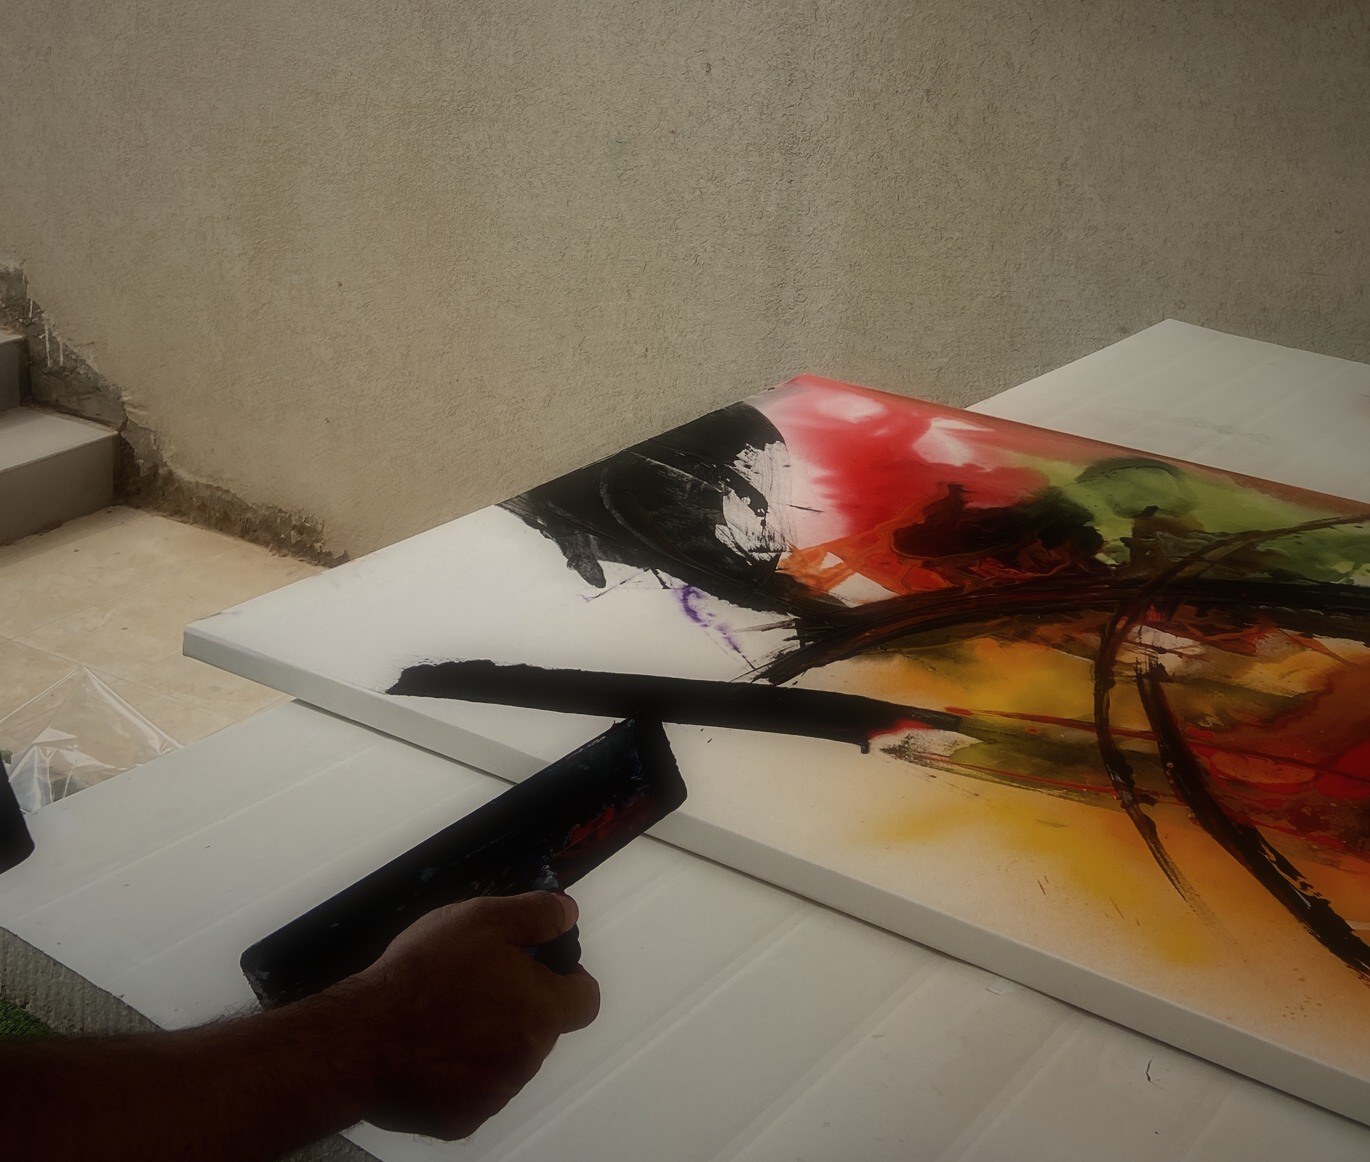
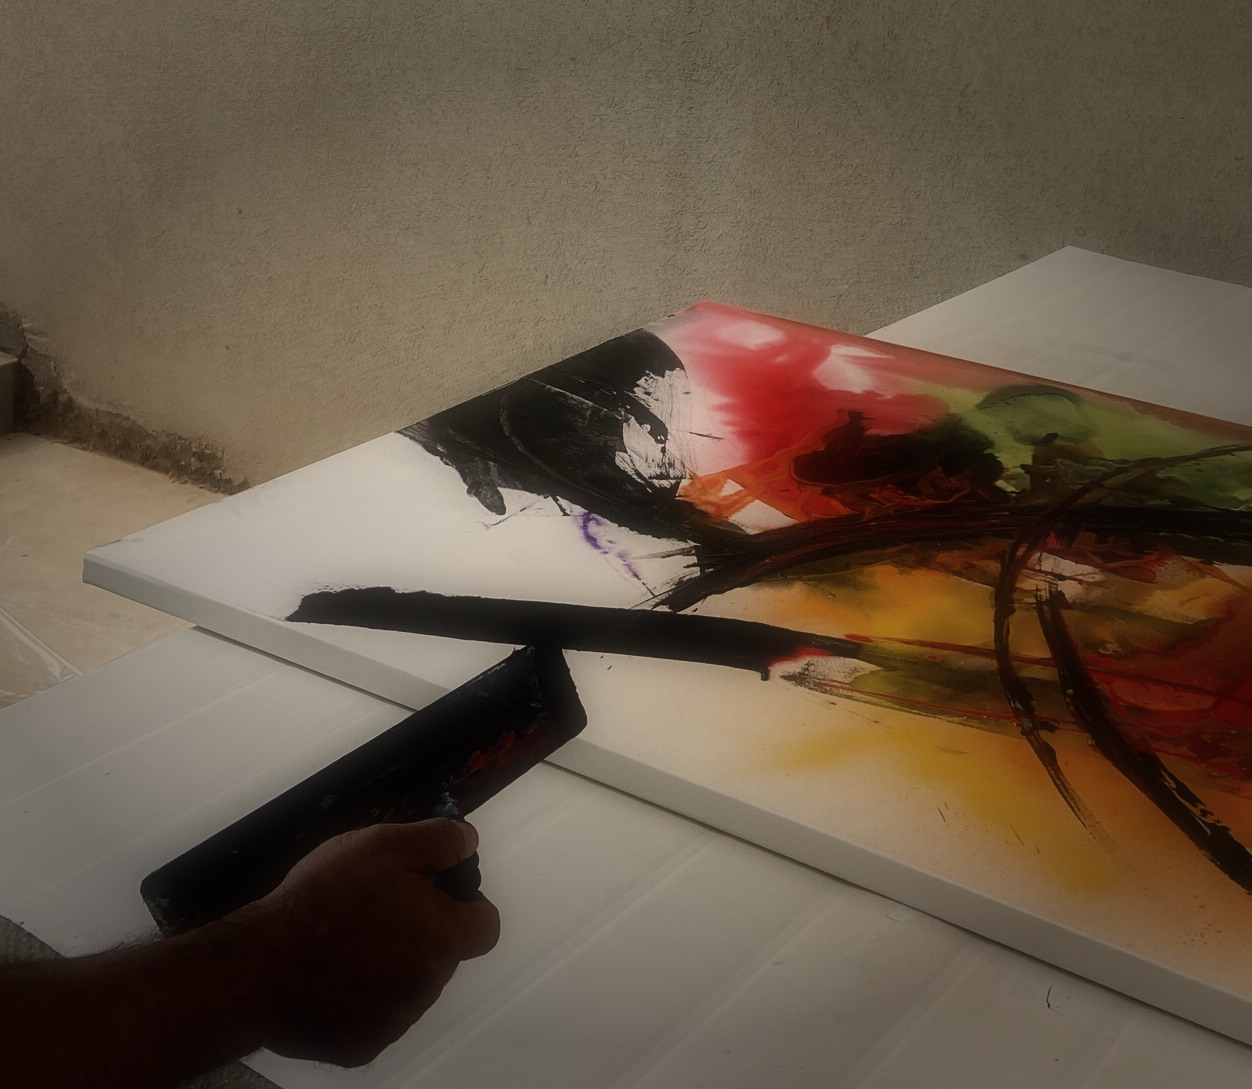
Soften the studio portraits and keep About clear of the WhatsApp button.
A warmer, desaturated grade with gentle diffusion, a light vignette, and deeper shadows. Originals stay in originals/studio/.

diff --git a/src/styles/global.css b/src/styles/global.css
@@ -1141,6 +1141,15 @@ figcaption,
 @media (min-width: 900px) {
   .about-pair {
     grid-template-columns: minmax(0, 1.2fr) minmax(16rem, 0.8fr);
+    align-items: start;
+  }
+
+  .about-copy {
+    padding-top: clamp(1.4rem, 4vw, 3.2rem);
+  }
+
+  .about-pair:not(.is-flip) .about-copy {
+    padding-right: 8rem;
   }
 
   .about-pair.is-flip {

diff --git a/README.md b/README.md
@@ -101,6 +101,6 @@ The site shows the canvas only. Frames, walls, and studio floors have been cropp
 
 On an artwork page, **On a wall** places the canvas at its size in centimetres beside a bench of 200 cm and a figure of 170 cm.
 
-Studio photographs on About are cropped to the artist and the painting, then given a light, warm, soft grade. The untouched files are in `originals/studio/`. The artist statement lives in `src/content/artist-statement.ts`. A studio film appears on About only when a file is added at `src/assets/studio/studio.mp4` or `studio.webm`.
+Studio photographs on About are cropped to the artist and the painting, then given a soft, warm, slightly desaturated grade: gentle diffusion, a light vignette, and deeper shadows. The untouched files are in `originals/studio/`. The artist statement lives in `src/content/artist-statement.ts`. A studio film appears on About only when a file is added at `src/assets/studio/studio.mp4` or `studio.webm`.
 
 A few originals are small, so those paintings look soft when the browser enlarges them. To replace one, keep the filename `image.jpg` in that painting’s folder and swap the file. Astro generates the responsive sizes at build time.
